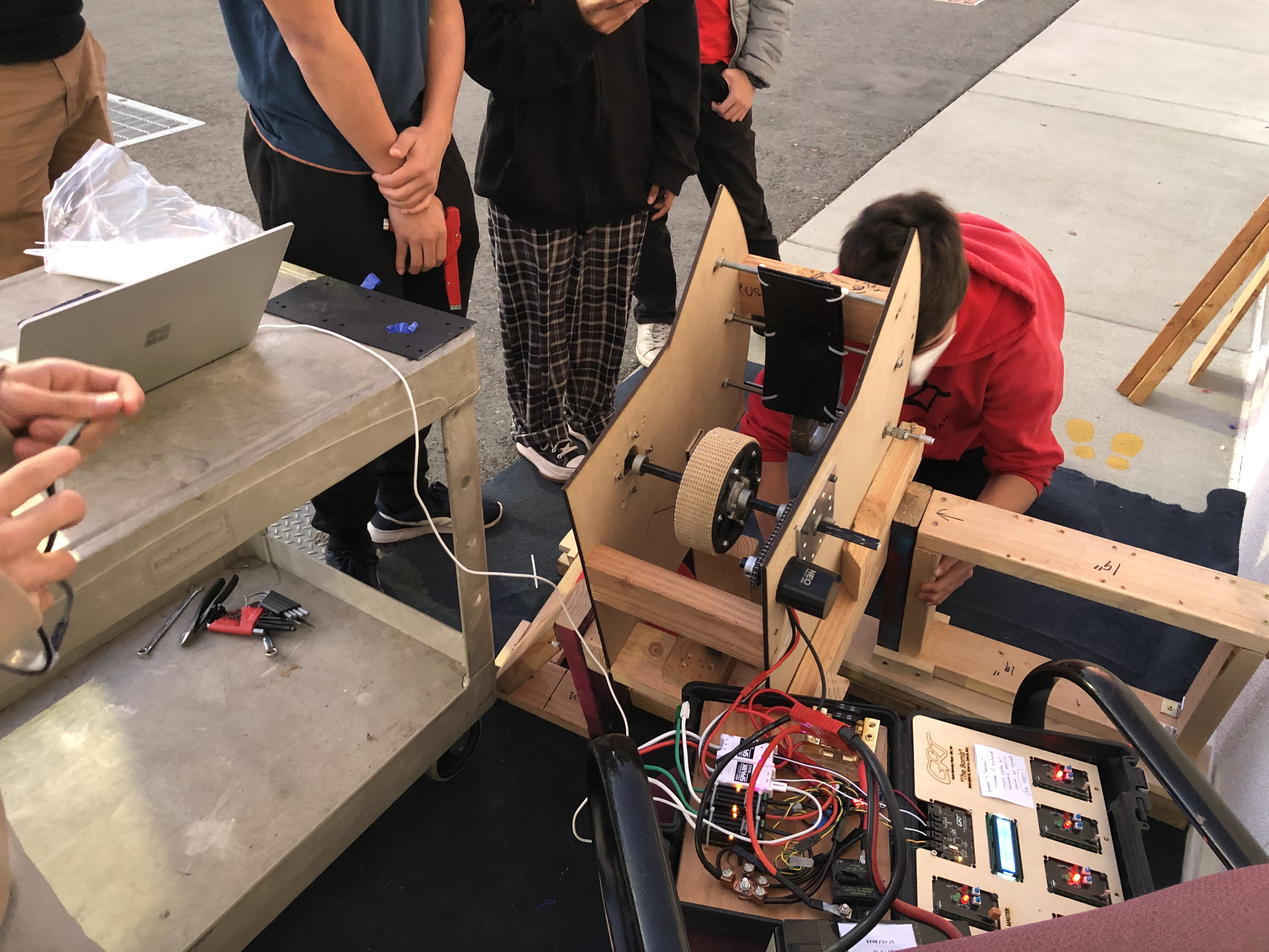
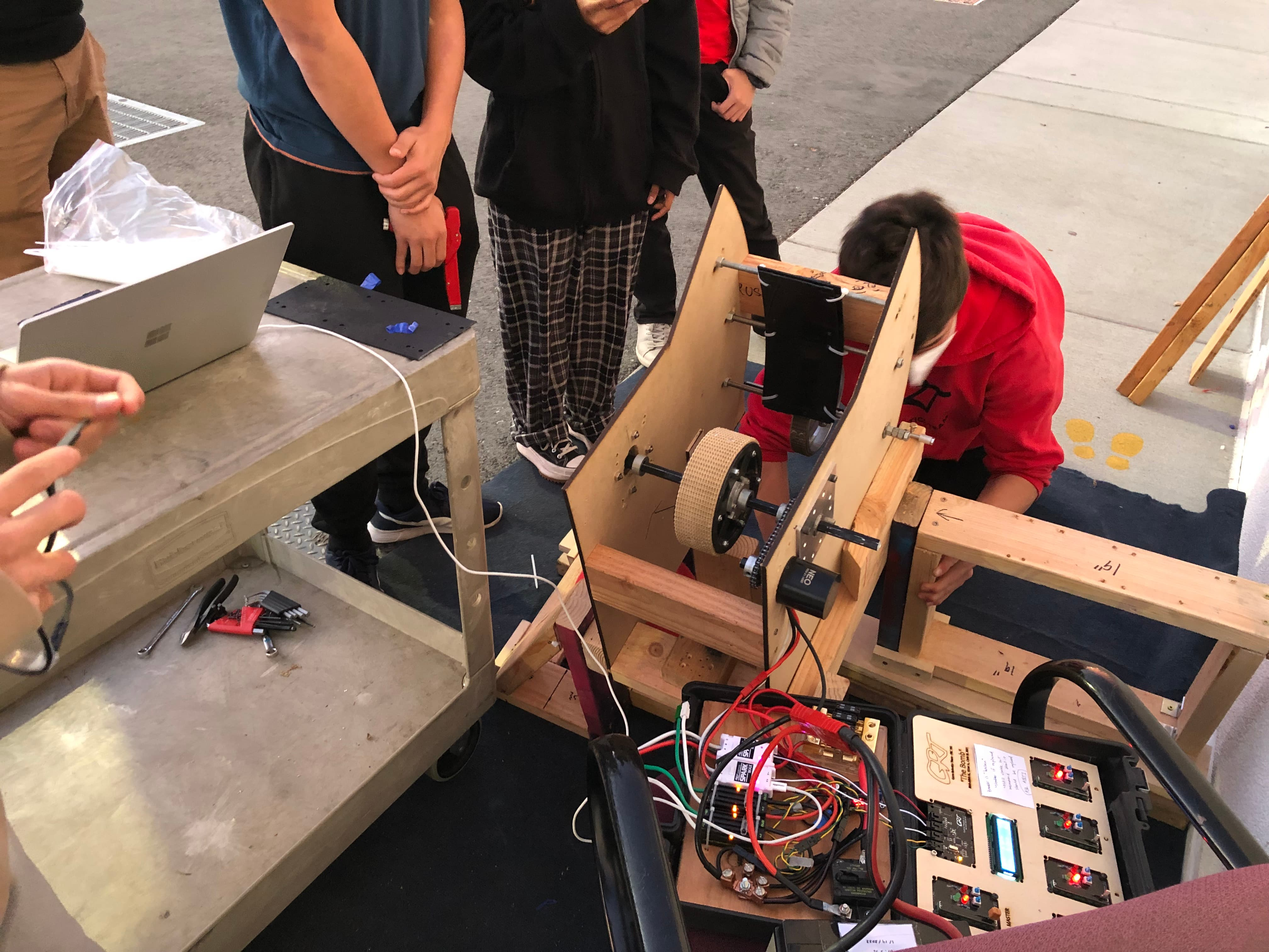
Preliminary image optimization, more image edits

Changed region(s): [[0.75, 0.2176, 0.8438, 0.4974], [0.5312, 0.0, 0.5938, 0.0622], [0.3438, 0.2176, 0.375, 0.3108]]

diff --git a/app/(landing)/Projects.tsx b/app/(landing)/Projects.tsx
@@ -39,7 +39,7 @@ export default function Projects() {
                     <ProjectGroup name="b01lers" gh="https://github.com/b01lers">
                         <ProjectImageCard
                             name="bctf"
-                            href="/assets/projects/b01lers-ctf-3.png"
+                            href="/assets/projects/b01lers-ctf-3.jpg"
                             langs={['ts', 'css']}
                             tags={['nextjs', 'tailwindcss']}
                             gh="https://github.com/ky28059/bctf"
@@ -49,7 +49,7 @@ export default function Projects() {
                         </ProjectImageCard>
                         <ProjectImageCard
                             name="b01lers-bot"
-                            href="/assets/projects/b01lers-bot.png"
+                            href="/assets/projects/b01lers-bot.jpg"
                             langs={['rust']}
                             tags={['serenity', 'poise', 'sqlx']}
                             gh="https://github.com/Athryx/b01lers-bot"
@@ -61,7 +61,7 @@ export default function Projects() {
                     <ProjectGroup name="Goldhaber-Gordon Group" gh="https://github.com/dgglab">
                         <ProjectImageCard
                             name="flakefinder"
-                            href="/assets/projects/flakefinder.png"
+                            href="/assets/projects/flakefinder.jpg"
                             langs={['py']}
                             tags={['opencv', 'multiprocessing', 'numpy']}
                             gh="https://github.com/ky28059/flakefinder"
@@ -73,7 +73,7 @@ export default function Projects() {
                     <ProjectGroup name="GRT" gh="https://github.com/grt192">
                         <ProjectImageCard
                             name="GRT Website 2.0"
-                            href="/assets/projects/grt-website.png"
+                            href="/assets/projects/grt-website.jpg"
                             langs={['ts', 'css']}
                             tags={['nextjs', 'tailwindcss']}
                             gh="https://github.com/ky28059/GRTWebsite2.0"
@@ -237,7 +237,7 @@ export default function Projects() {
                         */}
                         <ProjectImageCard
                             name="RBot"
-                            href="/assets/projects/rbot-2.png"
+                            href="/assets/projects/rbot.jpg"
                             langs={['ts']}
                             tags={['discord.js']}
                             gh="https://github.com/ky28059/RBot"
@@ -247,7 +247,7 @@ export default function Projects() {
                         </ProjectImageCard>
                         <ProjectImageCard
                             name="Geckobot"
-                            href="/assets/projects/geckobot-2.png"
+                            href="/assets/projects/geckobot-3.jpg"
                             langs={['c#', 'q#']}
                             tags={['discord.net']}
                             gh="https://github.com/croissantderp/geckobot"
